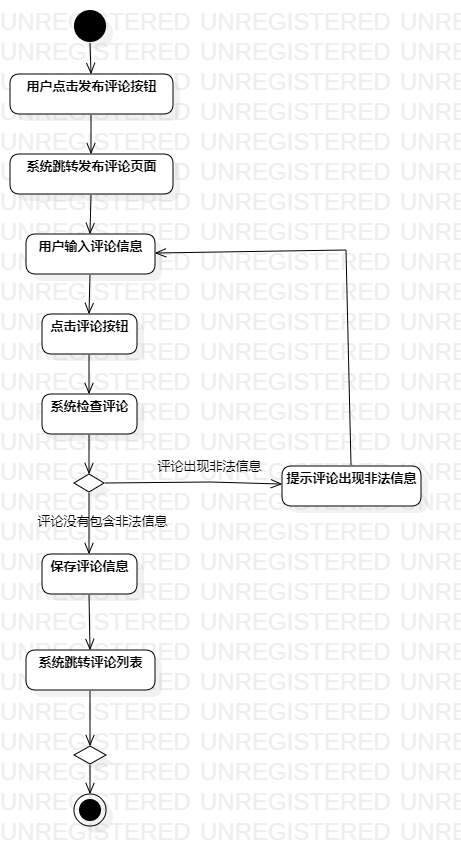
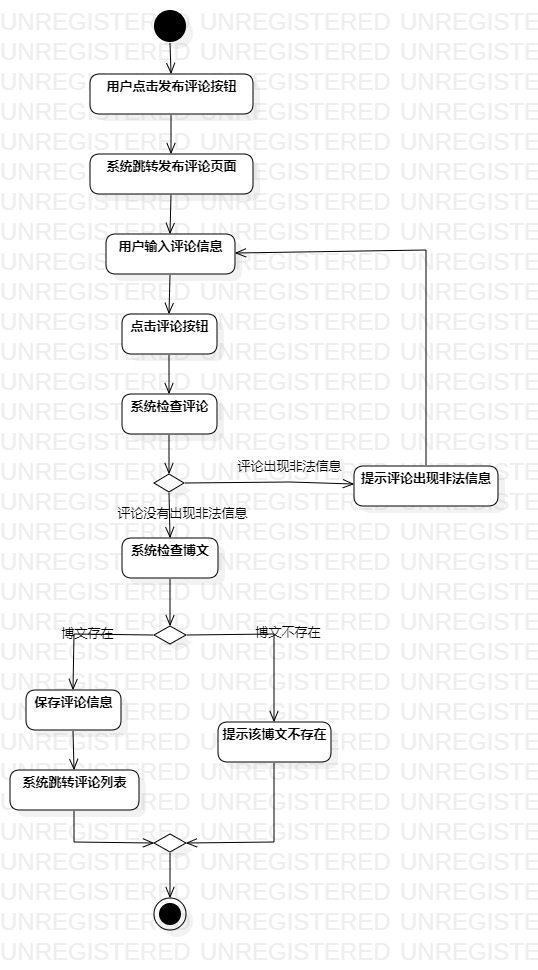
#2 #3 #4 #5 #201 实验修改
#2 #3 #4 #5 #201 实验修改

diff --git a/students/1714080902216/lab2.md b/students/1714080902216/lab2.md
@@ -54,6 +54,8 @@
 基本流程 | 1.用户点击发布评论按钮 |
 ~ | 2.系统跳转发布评论页面 |
 ~ | 3.用户输入评论信息后点击评论按钮 |
-~ | 4.系统检查评论没有包含非法信息，保存评论信息 |
-~ | 5.系统跳转评论列表 |
-扩展流程 | 4.1 系统检查发现评论出现非法信息，提示“评论出现非法信息” | 发表评论失败
+~ | 4.系统检查评论没有包含非法信息 |
+~ | 5.系统检查博文存在，保存评论信息 |
+~ | 6.系统跳转评论列表 |
+扩展流程 | 4.1 系统检查发现评论出现非法信息，提示“评论出现非法信息” | 发表评论失败 |
+~ | 5.1 系统检查博文不存在，提示“该博文不存在” | 发表评论失败 |

diff --git a/students/1714080902216/lab4.md b/students/1714080902216/lab4.md
@@ -30,7 +30,7 @@
 
 ## 5. 实验结果
 
-![发表博客的类图](./ClassDiagram1.jpg)  
+![发表博文的类图](./ClassDiagram1.jpg)  
 图1：发表博文的类图
 
 ![发表评论的类图](./ClassDiagram2.jpg)  
